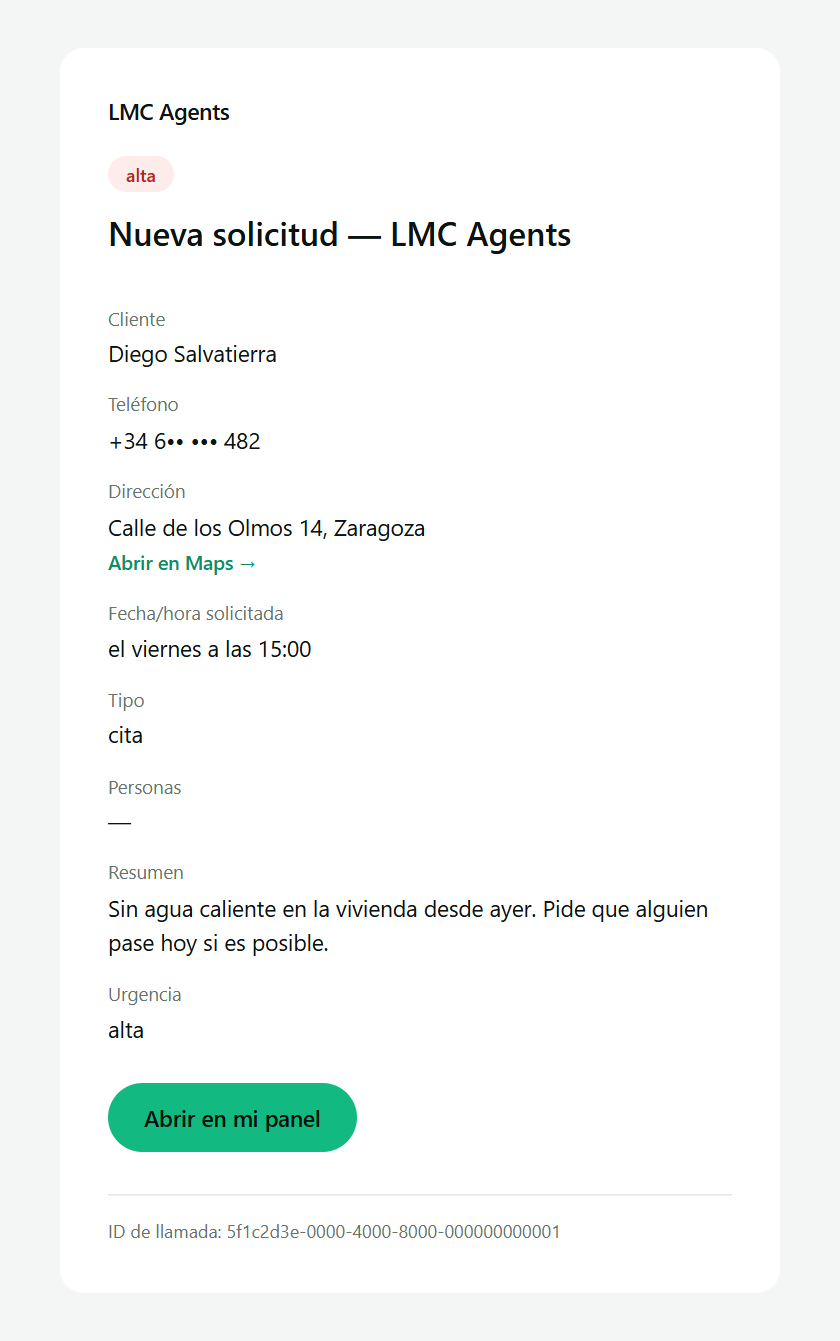
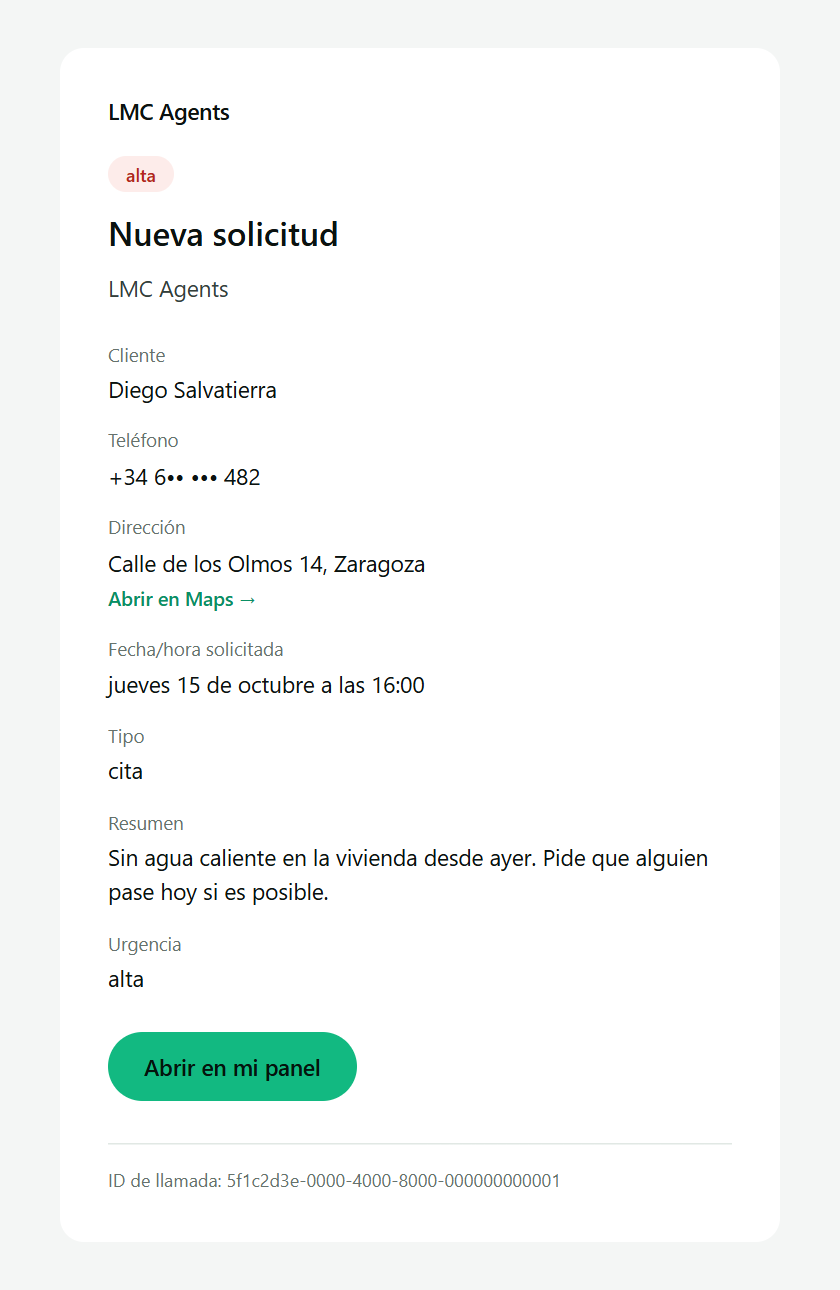
Owner emails: no dashes. Empty rows omitted, new subject shape, formatted date
- Subject: 'Nouvelle demande : Clémence (Business)' or 'Nouvelle demande : Business' without a name; review email 'Appel à vérifier : Business'. The no_name fallback is gone.
- Heading is just the heading; the business name (escaped) moves to the cell under it.
- _esc(None) returns '' and rows with an empty value are left out (client, phone, address, time, party size, summary); type and urgency stay. The review email has no phone row without a phone. The only caller of _esc relying on the dash was the row values.
- Requested date/time: shown from preferred_time_iso in the business timezone with fixed per-language weekday and month names (jeudi 15 octobre à 16:00); falls back to the caller's own words, never both. call_ingest passes the business tz.
- Tests (98 pass) and docs/email-previews regenerated, plus an almost-empty extraction preview.

diff --git a/docs/email-previews/es-urgent.html b/docs/email-previews/es-urgent.html
@@ -13,9 +13,9 @@
       <table role="presentation" width="100%" cellpadding="0" cellspacing="0" style="max-width:480px;background:#ffffff;border-radius:16px;padding:32px;">
         <tr><td style="font-size:15px;font-weight:600;letter-spacing:-0.01em;color:#0b1210;padding-bottom:20px;">LMC Agents</td></tr>
         <tr><td style="padding-bottom:14px;"><span style="display:inline-block;background:#fdecea;color:#b3261e;border-radius:999px;padding:4px 12px;font-size:12px;font-weight:600;">alta</span></td></tr>
-        <tr><td style="font-size:22px;font-weight:600;line-height:1.25;padding-bottom:10px;">Nueva solicitud — LMC Agents</td></tr>
-        <tr><td style="font-size:15px;line-height:1.6;color:#33403b;padding-bottom:24px;"></td></tr>
-        <tr><td style="padding-bottom:14px;"><div style="font-size:12.5px;line-height:1.4;color:#66726d;padding-bottom:3px;">Cliente</div><div style="font-size:15px;line-height:1.55;color:#0b1210;">Diego Salvatierra</div></td></tr><tr><td style="padding-bottom:14px;"><div style="font-size:12.5px;line-height:1.4;color:#66726d;padding-bottom:3px;">Teléfono</div><div style="font-size:15px;line-height:1.55;color:#0b1210;">+34 6•• ••• 482</div></td></tr><tr><td style="padding-bottom:14px;"><div style="font-size:12.5px;line-height:1.4;color:#66726d;padding-bottom:3px;">Dirección</div><div style="font-size:15px;line-height:1.55;color:#0b1210;">Calle de los Olmos 14, Zaragoza<br><a href="https://www.google.com/maps/search/?api=1&amp;query=Calle%20de%20los%20Olmos%2014%2C%20Zaragoza" style="font-size:13px;font-weight:600;color:#0a8f64;text-decoration:none;">Abrir en Maps →</a></div></td></tr><tr><td style="padding-bottom:14px;"><div style="font-size:12.5px;line-height:1.4;color:#66726d;padding-bottom:3px;">Fecha/hora solicitada</div><div style="font-size:15px;line-height:1.55;color:#0b1210;">el viernes a las 15:00</div></td></tr><tr><td style="padding-bottom:14px;"><div style="font-size:12.5px;line-height:1.4;color:#66726d;padding-bottom:3px;">Tipo</div><div style="font-size:15px;line-height:1.55;color:#0b1210;">cita</div></td></tr><tr><td style="padding-bottom:14px;"><div style="font-size:12.5px;line-height:1.4;color:#66726d;padding-bottom:3px;">Personas</div><div style="font-size:15px;line-height:1.55;color:#0b1210;">—</div></td></tr><tr><td style="padding-bottom:14px;"><div style="font-size:12.5px;line-height:1.4;color:#66726d;padding-bottom:3px;">Resumen</div><div style="font-size:15px;line-height:1.55;color:#0b1210;">Sin agua caliente en la vivienda desde ayer. Pide que alguien pase hoy si es posible.</div></td></tr><tr><td style="padding-bottom:14px;"><div style="font-size:12.5px;line-height:1.4;color:#66726d;padding-bottom:3px;">Urgencia</div><div style="font-size:15px;line-height:1.55;color:#0b1210;">alta</div></td></tr>
+        <tr><td style="font-size:22px;font-weight:600;line-height:1.25;padding-bottom:10px;">Nueva solicitud</td></tr>
+        <tr><td style="font-size:15px;line-height:1.6;color:#33403b;padding-bottom:24px;">LMC Agents</td></tr>
+        <tr><td style="padding-bottom:14px;"><div style="font-size:12.5px;line-height:1.4;color:#66726d;padding-bottom:3px;">Cliente</div><div style="font-size:15px;line-height:1.55;color:#0b1210;">Diego Salvatierra</div></td></tr><tr><td style="padding-bottom:14px;"><div style="font-size:12.5px;line-height:1.4;color:#66726d;padding-bottom:3px;">Teléfono</div><div style="font-size:15px;line-height:1.55;color:#0b1210;">+34 6•• ••• 482</div></td></tr><tr><td style="padding-bottom:14px;"><div style="font-size:12.5px;line-height:1.4;color:#66726d;padding-bottom:3px;">Dirección</div><div style="font-size:15px;line-height:1.55;color:#0b1210;">Calle de los Olmos 14, Zaragoza<br><a href="https://www.google.com/maps/search/?api=1&amp;query=Calle%20de%20los%20Olmos%2014%2C%20Zaragoza" style="font-size:13px;font-weight:600;color:#0a8f64;text-decoration:none;">Abrir en Maps →</a></div></td></tr><tr><td style="padding-bottom:14px;"><div style="font-size:12.5px;line-height:1.4;color:#66726d;padding-bottom:3px;">Fecha/hora solicitada</div><div style="font-size:15px;line-height:1.55;color:#0b1210;">jueves 15 de octubre a las 16:00</div></td></tr><tr><td style="padding-bottom:14px;"><div style="font-size:12.5px;line-height:1.4;color:#66726d;padding-bottom:3px;">Tipo</div><div style="font-size:15px;line-height:1.55;color:#0b1210;">cita</div></td></tr><tr><td style="padding-bottom:14px;"><div style="font-size:12.5px;line-height:1.4;color:#66726d;padding-bottom:3px;">Resumen</div><div style="font-size:15px;line-height:1.55;color:#0b1210;">Sin agua caliente en la vivienda desde ayer. Pide que alguien pase hoy si es posible.</div></td></tr><tr><td style="padding-bottom:14px;"><div style="font-size:12.5px;line-height:1.4;color:#66726d;padding-bottom:3px;">Urgencia</div><div style="font-size:15px;line-height:1.55;color:#0b1210;">alta</div></td></tr>
         <tr><td style="padding-top:10px;padding-bottom:28px;"><a href="https://www.lmcagents.app/dashboard/calls/5f1c2d3e-0000-4000-8000-000000000001" style="display:inline-block;background:#12b981;color:#04140d;font-size:15px;font-weight:600;text-decoration:none;padding:13px 24px;border-radius:999px;">Abrir en mi panel</a></td></tr>
         <tr><td style="font-size:12px;line-height:1.6;color:#66726d;border-top:1px solid #e1e8e4;padding-top:14px;">ID de llamada: 5f1c2d3e-0000-4000-8000-000000000001</td></tr>
       </table>

diff --git a/docs/email-previews/fr-urgent.html b/docs/email-previews/fr-urgent.html
@@ -13,9 +13,9 @@
       <table role="presentation" width="100%" cellpadding="0" cellspacing="0" style="max-width:480px;background:#ffffff;border-radius:16px;padding:32px;">
         <tr><td style="font-size:15px;font-weight:600;letter-spacing:-0.01em;color:#0b1210;padding-bottom:20px;">LMC Agents</td></tr>
         <tr><td style="padding-bottom:14px;"><span style="display:inline-block;background:#fdecea;color:#b3261e;border-radius:999px;padding:4px 12px;font-size:12px;font-weight:600;">élevée</span></td></tr>
-        <tr><td style="font-size:22px;font-weight:600;line-height:1.25;padding-bottom:10px;">Nouvelle demande — LMC Agents</td></tr>
-        <tr><td style="font-size:15px;line-height:1.6;color:#33403b;padding-bottom:24px;"></td></tr>
-        <tr><td style="padding-bottom:14px;"><div style="font-size:12.5px;line-height:1.4;color:#66726d;padding-bottom:3px;">Client</div><div style="font-size:15px;line-height:1.55;color:#0b1210;">Clémence Guyot</div></td></tr><tr><td style="padding-bottom:14px;"><div style="font-size:12.5px;line-height:1.4;color:#66726d;padding-bottom:3px;">Téléphone</div><div style="font-size:15px;line-height:1.55;color:#0b1210;">06 39 98 12 34</div></td></tr><tr><td style="padding-bottom:14px;"><div style="font-size:12.5px;line-height:1.4;color:#66726d;padding-bottom:3px;">Adresse</div><div style="font-size:15px;line-height:1.55;color:#0b1210;">14 rue des Tilleuls, Lyon<br><a href="https://www.google.com/maps/search/?api=1&amp;query=14%20rue%20des%20Tilleuls%2C%20Lyon" style="font-size:13px;font-weight:600;color:#0a8f64;text-decoration:none;">Ouvrir dans Maps →</a></div></td></tr><tr><td style="padding-bottom:14px;"><div style="font-size:12.5px;line-height:1.4;color:#66726d;padding-bottom:3px;">Date/heure demandée</div><div style="font-size:15px;line-height:1.55;color:#0b1210;">vendredi à 15 h</div></td></tr><tr><td style="padding-bottom:14px;"><div style="font-size:12.5px;line-height:1.4;color:#66726d;padding-bottom:3px;">Type</div><div style="font-size:15px;line-height:1.55;color:#0b1210;">rendez-vous</div></td></tr><tr><td style="padding-bottom:14px;"><div style="font-size:12.5px;line-height:1.4;color:#66726d;padding-bottom:3px;">Personnes</div><div style="font-size:15px;line-height:1.55;color:#0b1210;">—</div></td></tr><tr><td style="padding-bottom:14px;"><div style="font-size:12.5px;line-height:1.4;color:#66726d;padding-bottom:3px;">Résumé</div><div style="font-size:15px;line-height:1.55;color:#0b1210;">Chaudière en panne depuis ce matin, une fuite visible. Souhaite être rappelée rapidement.</div></td></tr><tr><td style="padding-bottom:14px;"><div style="font-size:12.5px;line-height:1.4;color:#66726d;padding-bottom:3px;">Urgence</div><div style="font-size:15px;line-height:1.55;color:#0b1210;">élevée</div></td></tr>
+        <tr><td style="font-size:22px;font-weight:600;line-height:1.25;padding-bottom:10px;">Nouvelle demande</td></tr>
+        <tr><td style="font-size:15px;line-height:1.6;color:#33403b;padding-bottom:24px;">LMC Agents</td></tr>
+        <tr><td style="padding-bottom:14px;"><div style="font-size:12.5px;line-height:1.4;color:#66726d;padding-bottom:3px;">Client</div><div style="font-size:15px;line-height:1.55;color:#0b1210;">Clémence Guyot</div></td></tr><tr><td style="padding-bottom:14px;"><div style="font-size:12.5px;line-height:1.4;color:#66726d;padding-bottom:3px;">Téléphone</div><div style="font-size:15px;line-height:1.55;color:#0b1210;">06 39 98 12 34</div></td></tr><tr><td style="padding-bottom:14px;"><div style="font-size:12.5px;line-height:1.4;color:#66726d;padding-bottom:3px;">Adresse</div><div style="font-size:15px;line-height:1.55;color:#0b1210;">14 rue des Tilleuls, Lyon<br><a href="https://www.google.com/maps/search/?api=1&amp;query=14%20rue%20des%20Tilleuls%2C%20Lyon" style="font-size:13px;font-weight:600;color:#0a8f64;text-decoration:none;">Ouvrir dans Maps →</a></div></td></tr><tr><td style="padding-bottom:14px;"><div style="font-size:12.5px;line-height:1.4;color:#66726d;padding-bottom:3px;">Date/heure demandée</div><div style="font-size:15px;line-height:1.55;color:#0b1210;">jeudi 15 octobre à 16:00</div></td></tr><tr><td style="padding-bottom:14px;"><div style="font-size:12.5px;line-height:1.4;color:#66726d;padding-bottom:3px;">Type</div><div style="font-size:15px;line-height:1.55;color:#0b1210;">rendez-vous</div></td></tr><tr><td style="padding-bottom:14px;"><div style="font-size:12.5px;line-height:1.4;color:#66726d;padding-bottom:3px;">Résumé</div><div style="font-size:15px;line-height:1.55;color:#0b1210;">Chaudière en panne depuis ce matin, une fuite visible. Souhaite être rappelée rapidement.</div></td></tr><tr><td style="padding-bottom:14px;"><div style="font-size:12.5px;line-height:1.4;color:#66726d;padding-bottom:3px;">Urgence</div><div style="font-size:15px;line-height:1.55;color:#0b1210;">élevée</div></td></tr>
         <tr><td style="padding-top:10px;padding-bottom:28px;"><a href="https://www.lmcagents.app/dashboard/calls/5f1c2d3e-0000-4000-8000-000000000001" style="display:inline-block;background:#12b981;color:#04140d;font-size:15px;font-weight:600;text-decoration:none;padding:13px 24px;border-radius:999px;">Ouvrir dans mon tableau de bord</a></td></tr>
         <tr><td style="font-size:12px;line-height:1.6;color:#66726d;border-top:1px solid #e1e8e4;padding-top:14px;">ID d'appel: 5f1c2d3e-0000-4000-8000-000000000001</td></tr>
       </table>

diff --git a/docs/email-previews/en-urgent.html b/docs/email-previews/en-urgent.html
@@ -13,9 +13,9 @@
       <table role="presentation" width="100%" cellpadding="0" cellspacing="0" style="max-width:480px;background:#ffffff;border-radius:16px;padding:32px;">
         <tr><td style="font-size:15px;font-weight:600;letter-spacing:-0.01em;color:#0b1210;padding-bottom:20px;">LMC Agents</td></tr>
         <tr><td style="padding-bottom:14px;"><span style="display:inline-block;background:#fdecea;color:#b3261e;border-radius:999px;padding:4px 12px;font-size:12px;font-weight:600;">high</span></td></tr>
-        <tr><td style="font-size:22px;font-weight:600;line-height:1.25;padding-bottom:10px;">New request — LMC Agents</td></tr>
-        <tr><td style="font-size:15px;line-height:1.6;color:#33403b;padding-bottom:24px;"></td></tr>
-        <tr><td style="padding-bottom:14px;"><div style="font-size:12.5px;line-height:1.4;color:#66726d;padding-bottom:3px;">Client</div><div style="font-size:15px;line-height:1.55;color:#0b1210;">Megan Pollard</div></td></tr><tr><td style="padding-bottom:14px;"><div style="font-size:12.5px;line-height:1.4;color:#66726d;padding-bottom:3px;">Phone</div><div style="font-size:15px;line-height:1.55;color:#0b1210;">07700 900123</div></td></tr><tr><td style="padding-bottom:14px;"><div style="font-size:12.5px;line-height:1.4;color:#66726d;padding-bottom:3px;">Address</div><div style="font-size:15px;line-height:1.55;color:#0b1210;">14 Hawthorn Road, Leeds<br><a href="https://www.google.com/maps/search/?api=1&amp;query=14%20Hawthorn%20Road%2C%20Leeds" style="font-size:13px;font-weight:600;color:#0a8f64;text-decoration:none;">Open in Maps →</a></div></td></tr><tr><td style="padding-bottom:14px;"><div style="font-size:12.5px;line-height:1.4;color:#66726d;padding-bottom:3px;">Requested date/time</div><div style="font-size:15px;line-height:1.55;color:#0b1210;">Friday at 3 pm</div></td></tr><tr><td style="padding-bottom:14px;"><div style="font-size:12.5px;line-height:1.4;color:#66726d;padding-bottom:3px;">Type</div><div style="font-size:15px;line-height:1.55;color:#0b1210;">appointment</div></td></tr><tr><td style="padding-bottom:14px;"><div style="font-size:12.5px;line-height:1.4;color:#66726d;padding-bottom:3px;">Party size</div><div style="font-size:15px;line-height:1.55;color:#0b1210;">—</div></td></tr><tr><td style="padding-bottom:14px;"><div style="font-size:12.5px;line-height:1.4;color:#66726d;padding-bottom:3px;">Summary</div><div style="font-size:15px;line-height:1.55;color:#0b1210;">Blocked toilet overflowing, needs someone today. Access through the side gate.</div></td></tr><tr><td style="padding-bottom:14px;"><div style="font-size:12.5px;line-height:1.4;color:#66726d;padding-bottom:3px;">Urgency</div><div style="font-size:15px;line-height:1.55;color:#0b1210;">high</div></td></tr>
+        <tr><td style="font-size:22px;font-weight:600;line-height:1.25;padding-bottom:10px;">New request</td></tr>
+        <tr><td style="font-size:15px;line-height:1.6;color:#33403b;padding-bottom:24px;">LMC Agents</td></tr>
+        <tr><td style="padding-bottom:14px;"><div style="font-size:12.5px;line-height:1.4;color:#66726d;padding-bottom:3px;">Client</div><div style="font-size:15px;line-height:1.55;color:#0b1210;">Megan Pollard</div></td></tr><tr><td style="padding-bottom:14px;"><div style="font-size:12.5px;line-height:1.4;color:#66726d;padding-bottom:3px;">Phone</div><div style="font-size:15px;line-height:1.55;color:#0b1210;">07700 900123</div></td></tr><tr><td style="padding-bottom:14px;"><div style="font-size:12.5px;line-height:1.4;color:#66726d;padding-bottom:3px;">Address</div><div style="font-size:15px;line-height:1.55;color:#0b1210;">14 Hawthorn Road, Leeds<br><a href="https://www.google.com/maps/search/?api=1&amp;query=14%20Hawthorn%20Road%2C%20Leeds" style="font-size:13px;font-weight:600;color:#0a8f64;text-decoration:none;">Open in Maps →</a></div></td></tr><tr><td style="padding-bottom:14px;"><div style="font-size:12.5px;line-height:1.4;color:#66726d;padding-bottom:3px;">Requested date/time</div><div style="font-size:15px;line-height:1.55;color:#0b1210;">Thursday 15 October at 15:00</div></td></tr><tr><td style="padding-bottom:14px;"><div style="font-size:12.5px;line-height:1.4;color:#66726d;padding-bottom:3px;">Type</div><div style="font-size:15px;line-height:1.55;color:#0b1210;">appointment</div></td></tr><tr><td style="padding-bottom:14px;"><div style="font-size:12.5px;line-height:1.4;color:#66726d;padding-bottom:3px;">Summary</div><div style="font-size:15px;line-height:1.55;color:#0b1210;">Blocked toilet overflowing, needs someone today. Access through the side gate.</div></td></tr><tr><td style="padding-bottom:14px;"><div style="font-size:12.5px;line-height:1.4;color:#66726d;padding-bottom:3px;">Urgency</div><div style="font-size:15px;line-height:1.55;color:#0b1210;">high</div></td></tr>
         <tr><td style="padding-top:10px;padding-bottom:28px;"><a href="https://www.lmcagents.app/dashboard/calls/5f1c2d3e-0000-4000-8000-000000000001" style="display:inline-block;background:#12b981;color:#04140d;font-size:15px;font-weight:600;text-decoration:none;padding:13px 24px;border-radius:999px;">Open in my dashboard</a></td></tr>
         <tr><td style="font-size:12px;line-height:1.6;color:#66726d;border-top:1px solid #e1e8e4;padding-top:14px;">Call ID: 5f1c2d3e-0000-4000-8000-000000000001</td></tr>
       </table>

diff --git a/docs/email-previews/fr-routine.html b/docs/email-previews/fr-routine.html
@@ -13,9 +13,9 @@
       <table role="presentation" width="100%" cellpadding="0" cellspacing="0" style="max-width:480px;background:#ffffff;border-radius:16px;padding:32px;">
         <tr><td style="font-size:15px;font-weight:600;letter-spacing:-0.01em;color:#0b1210;padding-bottom:20px;">LMC Agents</td></tr>
         
-        <tr><td style="font-size:22px;font-weight:600;line-height:1.25;padding-bottom:10px;">Nouvelle demande — LMC Agents</td></tr>
-        <tr><td style="font-size:15px;line-height:1.6;color:#33403b;padding-bottom:24px;"></td></tr>
-        <tr><td style="padding-bottom:14px;"><div style="font-size:12.5px;line-height:1.4;color:#66726d;padding-bottom:3px;">Client</div><div style="font-size:15px;line-height:1.55;color:#0b1210;">Clémence Guyot</div></td></tr><tr><td style="padding-bottom:14px;"><div style="font-size:12.5px;line-height:1.4;color:#66726d;padding-bottom:3px;">Téléphone</div><div style="font-size:15px;line-height:1.55;color:#0b1210;">06 39 98 12 34</div></td></tr><tr><td style="padding-bottom:14px;"><div style="font-size:12.5px;line-height:1.4;color:#66726d;padding-bottom:3px;">Adresse</div><div style="font-size:15px;line-height:1.55;color:#0b1210;">—</div></td></tr><tr><td style="padding-bottom:14px;"><div style="font-size:12.5px;line-height:1.4;color:#66726d;padding-bottom:3px;">Date/heure demandée</div><div style="font-size:15px;line-height:1.55;color:#0b1210;">vendredi à 15 h</div></td></tr><tr><td style="padding-bottom:14px;"><div style="font-size:12.5px;line-height:1.4;color:#66726d;padding-bottom:3px;">Type</div><div style="font-size:15px;line-height:1.55;color:#0b1210;">rendez-vous</div></td></tr><tr><td style="padding-bottom:14px;"><div style="font-size:12.5px;line-height:1.4;color:#66726d;padding-bottom:3px;">Personnes</div><div style="font-size:15px;line-height:1.55;color:#0b1210;">—</div></td></tr><tr><td style="padding-bottom:14px;"><div style="font-size:12.5px;line-height:1.4;color:#66726d;padding-bottom:3px;">Résumé</div><div style="font-size:15px;line-height:1.55;color:#0b1210;">Chaudière en panne depuis ce matin, une fuite visible. Souhaite être rappelée rapidement.</div></td></tr><tr><td style="padding-bottom:14px;"><div style="font-size:12.5px;line-height:1.4;color:#66726d;padding-bottom:3px;">Urgence</div><div style="font-size:15px;line-height:1.55;color:#0b1210;">normale</div></td></tr>
+        <tr><td style="font-size:22px;font-weight:600;line-height:1.25;padding-bottom:10px;">Nouvelle demande</td></tr>
+        <tr><td style="font-size:15px;line-height:1.6;color:#33403b;padding-bottom:24px;">LMC Agents</td></tr>
+        <tr><td style="padding-bottom:14px;"><div style="font-size:12.5px;line-height:1.4;color:#66726d;padding-bottom:3px;">Client</div><div style="font-size:15px;line-height:1.55;color:#0b1210;">Clémence Guyot</div></td></tr><tr><td style="padding-bottom:14px;"><div style="font-size:12.5px;line-height:1.4;color:#66726d;padding-bottom:3px;">Téléphone</div><div style="font-size:15px;line-height:1.55;color:#0b1210;">06 39 98 12 34</div></td></tr><tr><td style="padding-bottom:14px;"><div style="font-size:12.5px;line-height:1.4;color:#66726d;padding-bottom:3px;">Date/heure demandée</div><div style="font-size:15px;line-height:1.55;color:#0b1210;">vendredi à 15 h</div></td></tr><tr><td style="padding-bottom:14px;"><div style="font-size:12.5px;line-height:1.4;color:#66726d;padding-bottom:3px;">Type</div><div style="font-size:15px;line-height:1.55;color:#0b1210;">rendez-vous</div></td></tr><tr><td style="padding-bottom:14px;"><div style="font-size:12.5px;line-height:1.4;color:#66726d;padding-bottom:3px;">Résumé</div><div style="font-size:15px;line-height:1.55;color:#0b1210;">Chaudière en panne depuis ce matin, une fuite visible. Souhaite être rappelée rapidement.</div></td></tr><tr><td style="padding-bottom:14px;"><div style="font-size:12.5px;line-height:1.4;color:#66726d;padding-bottom:3px;">Urgence</div><div style="font-size:15px;line-height:1.55;color:#0b1210;">normale</div></td></tr>
         <tr><td style="padding-top:10px;padding-bottom:28px;"><a href="https://www.lmcagents.app/dashboard/calls/5f1c2d3e-0000-4000-8000-000000000001" style="display:inline-block;background:#12b981;color:#04140d;font-size:15px;font-weight:600;text-decoration:none;padding:13px 24px;border-radius:999px;">Ouvrir dans mon tableau de bord</a></td></tr>
         <tr><td style="font-size:12px;line-height:1.6;color:#66726d;border-top:1px solid #e1e8e4;padding-top:14px;">ID d'appel: 5f1c2d3e-0000-4000-8000-000000000001</td></tr>
       </table>

diff --git a/docs/email-previews/es-routine.html b/docs/email-previews/es-routine.html
@@ -13,9 +13,9 @@
       <table role="presentation" width="100%" cellpadding="0" cellspacing="0" style="max-width:480px;background:#ffffff;border-radius:16px;padding:32px;">
         <tr><td style="font-size:15px;font-weight:600;letter-spacing:-0.01em;color:#0b1210;padding-bottom:20px;">LMC Agents</td></tr>
         
-        <tr><td style="font-size:22px;font-weight:600;line-height:1.25;padding-bottom:10px;">Nueva solicitud — LMC Agents</td></tr>
-        <tr><td style="font-size:15px;line-height:1.6;color:#33403b;padding-bottom:24px;"></td></tr>
-        <tr><td style="padding-bottom:14px;"><div style="font-size:12.5px;line-height:1.4;color:#66726d;padding-bottom:3px;">Cliente</div><div style="font-size:15px;line-height:1.55;color:#0b1210;">Diego Salvatierra</div></td></tr><tr><td style="padding-bottom:14px;"><div style="font-size:12.5px;line-height:1.4;color:#66726d;padding-bottom:3px;">Teléfono</div><div style="font-size:15px;line-height:1.55;color:#0b1210;">+34 6•• ••• 482</div></td></tr><tr><td style="padding-bottom:14px;"><div style="font-size:12.5px;line-height:1.4;color:#66726d;padding-bottom:3px;">Dirección</div><div style="font-size:15px;line-height:1.55;color:#0b1210;">—</div></td></tr><tr><td style="padding-bottom:14px;"><div style="font-size:12.5px;line-height:1.4;color:#66726d;padding-bottom:3px;">Fecha/hora solicitada</div><div style="font-size:15px;line-height:1.55;color:#0b1210;">el viernes a las 15:00</div></td></tr><tr><td style="padding-bottom:14px;"><div style="font-size:12.5px;line-height:1.4;color:#66726d;padding-bottom:3px;">Tipo</div><div style="font-size:15px;line-height:1.55;color:#0b1210;">cita</div></td></tr><tr><td style="padding-bottom:14px;"><div style="font-size:12.5px;line-height:1.4;color:#66726d;padding-bottom:3px;">Personas</div><div style="font-size:15px;line-height:1.55;color:#0b1210;">—</div></td></tr><tr><td style="padding-bottom:14px;"><div style="font-size:12.5px;line-height:1.4;color:#66726d;padding-bottom:3px;">Resumen</div><div style="font-size:15px;line-height:1.55;color:#0b1210;">Sin agua caliente en la vivienda desde ayer. Pide que alguien pase hoy si es posible.</div></td></tr><tr><td style="padding-bottom:14px;"><div style="font-size:12.5px;line-height:1.4;color:#66726d;padding-bottom:3px;">Urgencia</div><div style="font-size:15px;line-height:1.55;color:#0b1210;">normal</div></td></tr>
+        <tr><td style="font-size:22px;font-weight:600;line-height:1.25;padding-bottom:10px;">Nueva solicitud</td></tr>
+        <tr><td style="font-size:15px;line-height:1.6;color:#33403b;padding-bottom:24px;">LMC Agents</td></tr>
+        <tr><td style="padding-bottom:14px;"><div style="font-size:12.5px;line-height:1.4;color:#66726d;padding-bottom:3px;">Cliente</div><div style="font-size:15px;line-height:1.55;color:#0b1210;">Diego Salvatierra</div></td></tr><tr><td style="padding-bottom:14px;"><div style="font-size:12.5px;line-height:1.4;color:#66726d;padding-bottom:3px;">Teléfono</div><div style="font-size:15px;line-height:1.55;color:#0b1210;">+34 6•• ••• 482</div></td></tr><tr><td style="padding-bottom:14px;"><div style="font-size:12.5px;line-height:1.4;color:#66726d;padding-bottom:3px;">Fecha/hora solicitada</div><div style="font-size:15px;line-height:1.55;color:#0b1210;">el viernes a las 15:00</div></td></tr><tr><td style="padding-bottom:14px;"><div style="font-size:12.5px;line-height:1.4;color:#66726d;padding-bottom:3px;">Tipo</div><div style="font-size:15px;line-height:1.55;color:#0b1210;">cita</div></td></tr><tr><td style="padding-bottom:14px;"><div style="font-size:12.5px;line-height:1.4;color:#66726d;padding-bottom:3px;">Resumen</div><div style="font-size:15px;line-height:1.55;color:#0b1210;">Sin agua caliente en la vivienda desde ayer. Pide que alguien pase hoy si es posible.</div></td></tr><tr><td style="padding-bottom:14px;"><div style="font-size:12.5px;line-height:1.4;color:#66726d;padding-bottom:3px;">Urgencia</div><div style="font-size:15px;line-height:1.55;color:#0b1210;">normal</div></td></tr>
         <tr><td style="padding-top:10px;padding-bottom:28px;"><a href="https://www.lmcagents.app/dashboard/calls/5f1c2d3e-0000-4000-8000-000000000001" style="display:inline-block;background:#12b981;color:#04140d;font-size:15px;font-weight:600;text-decoration:none;padding:13px 24px;border-radius:999px;">Abrir en mi panel</a></td></tr>
         <tr><td style="font-size:12px;line-height:1.6;color:#66726d;border-top:1px solid #e1e8e4;padding-top:14px;">ID de llamada: 5f1c2d3e-0000-4000-8000-000000000001</td></tr>
       </table>

diff --git a/docs/email-previews/en-routine.html b/docs/email-previews/en-routine.html
@@ -13,9 +13,9 @@
       <table role="presentation" width="100%" cellpadding="0" cellspacing="0" style="max-width:480px;background:#ffffff;border-radius:16px;padding:32px;">
         <tr><td style="font-size:15px;font-weight:600;letter-spacing:-0.01em;color:#0b1210;padding-bottom:20px;">LMC Agents</td></tr>
         
-        <tr><td style="font-size:22px;font-weight:600;line-height:1.25;padding-bottom:10px;">New request — LMC Agents</td></tr>
-        <tr><td style="font-size:15px;line-height:1.6;color:#33403b;padding-bottom:24px;"></td></tr>
-        <tr><td style="padding-bottom:14px;"><div style="font-size:12.5px;line-height:1.4;color:#66726d;padding-bottom:3px;">Client</div><div style="font-size:15px;line-height:1.55;color:#0b1210;">Megan Pollard</div></td></tr><tr><td style="padding-bottom:14px;"><div style="font-size:12.5px;line-height:1.4;color:#66726d;padding-bottom:3px;">Phone</div><div style="font-size:15px;line-height:1.55;color:#0b1210;">07700 900123</div></td></tr><tr><td style="padding-bottom:14px;"><div style="font-size:12.5px;line-height:1.4;color:#66726d;padding-bottom:3px;">Address</div><div style="font-size:15px;line-height:1.55;color:#0b1210;">—</div></td></tr><tr><td style="padding-bottom:14px;"><div style="font-size:12.5px;line-height:1.4;color:#66726d;padding-bottom:3px;">Requested date/time</div><div style="font-size:15px;line-height:1.55;color:#0b1210;">Friday at 3 pm</div></td></tr><tr><td style="padding-bottom:14px;"><div style="font-size:12.5px;line-height:1.4;color:#66726d;padding-bottom:3px;">Type</div><div style="font-size:15px;line-height:1.55;color:#0b1210;">appointment</div></td></tr><tr><td style="padding-bottom:14px;"><div style="font-size:12.5px;line-height:1.4;color:#66726d;padding-bottom:3px;">Party size</div><div style="font-size:15px;line-height:1.55;color:#0b1210;">—</div></td></tr><tr><td style="padding-bottom:14px;"><div style="font-size:12.5px;line-height:1.4;color:#66726d;padding-bottom:3px;">Summary</div><div style="font-size:15px;line-height:1.55;color:#0b1210;">Blocked toilet overflowing, needs someone today. Access through the side gate.</div></td></tr><tr><td style="padding-bottom:14px;"><div style="font-size:12.5px;line-height:1.4;color:#66726d;padding-bottom:3px;">Urgency</div><div style="font-size:15px;line-height:1.55;color:#0b1210;">normal</div></td></tr>
+        <tr><td style="font-size:22px;font-weight:600;line-height:1.25;padding-bottom:10px;">New request</td></tr>
+        <tr><td style="font-size:15px;line-height:1.6;color:#33403b;padding-bottom:24px;">LMC Agents</td></tr>
+        <tr><td style="padding-bottom:14px;"><div style="font-size:12.5px;line-height:1.4;color:#66726d;padding-bottom:3px;">Client</div><div style="font-size:15px;line-height:1.55;color:#0b1210;">Megan Pollard</div></td></tr><tr><td style="padding-bottom:14px;"><div style="font-size:12.5px;line-height:1.4;color:#66726d;padding-bottom:3px;">Phone</div><div style="font-size:15px;line-height:1.55;color:#0b1210;">07700 900123</div></td></tr><tr><td style="padding-bottom:14px;"><div style="font-size:12.5px;line-height:1.4;color:#66726d;padding-bottom:3px;">Requested date/time</div><div style="font-size:15px;line-height:1.55;color:#0b1210;">Friday at 3 pm</div></td></tr><tr><td style="padding-bottom:14px;"><div style="font-size:12.5px;line-height:1.4;color:#66726d;padding-bottom:3px;">Type</div><div style="font-size:15px;line-height:1.55;color:#0b1210;">appointment</div></td></tr><tr><td style="padding-bottom:14px;"><div style="font-size:12.5px;line-height:1.4;color:#66726d;padding-bottom:3px;">Summary</div><div style="font-size:15px;line-height:1.55;color:#0b1210;">Blocked toilet overflowing, needs someone today. Access through the side gate.</div></td></tr><tr><td style="padding-bottom:14px;"><div style="font-size:12.5px;line-height:1.4;color:#66726d;padding-bottom:3px;">Urgency</div><div style="font-size:15px;line-height:1.55;color:#0b1210;">normal</div></td></tr>
         <tr><td style="padding-top:10px;padding-bottom:28px;"><a href="https://www.lmcagents.app/dashboard/calls/5f1c2d3e-0000-4000-8000-000000000001" style="display:inline-block;background:#12b981;color:#04140d;font-size:15px;font-weight:600;text-decoration:none;padding:13px 24px;border-radius:999px;">Open in my dashboard</a></td></tr>
         <tr><td style="font-size:12px;line-height:1.6;color:#66726d;border-top:1px solid #e1e8e4;padding-top:14px;">Call ID: 5f1c2d3e-0000-4000-8000-000000000001</td></tr>
       </table>

diff --git a/docs/email-previews/es-almost-empty.html b/docs/email-previews/es-almost-empty.html
@@ -1,0 +1,25 @@
+<!DOCTYPE html>
+<html lang="es">
+<head>
+  <meta charset="utf-8">
+  <meta name="viewport" content="width=device-width, initial-scale=1">
+  <meta name="color-scheme" content="light dark">
+  <title>LMC Agents</title>
+</head>
+<body style="margin:0;padding:0;background:#f4f6f5;font-family:-apple-system,BlinkMacSystemFont,'Segoe UI',Roboto,Helvetica,Arial,sans-serif;color:#0b1210;">
+  <div style="display:none;max-height:0;overflow:hidden;opacity:0;">Una nueva llamada atendida por tu recepcionista.</div>
+  <table role="presentation" width="100%" cellpadding="0" cellspacing="0" style="background:#f4f6f5;padding:32px 16px;">
+    <tr><td align="center">
+      <table role="presentation" width="100%" cellpadding="0" cellspacing="0" style="max-width:480px;background:#ffffff;border-radius:16px;padding:32px;">
+        <tr><td style="font-size:15px;font-weight:600;letter-spacing:-0.01em;color:#0b1210;padding-bottom:20px;">LMC Agents</td></tr>
+        
+        <tr><td style="font-size:22px;font-weight:600;line-height:1.25;padding-bottom:10px;">Nueva solicitud</td></tr>
+        <tr><td style="font-size:15px;line-height:1.6;color:#33403b;padding-bottom:24px;">LMC Agents</td></tr>
+        <tr><td style="padding-bottom:14px;"><div style="font-size:12.5px;line-height:1.4;color:#66726d;padding-bottom:3px;">Tipo</div><div style="font-size:15px;line-height:1.55;color:#0b1210;">llamada de vuelta</div></td></tr><tr><td style="padding-bottom:14px;"><div style="font-size:12.5px;line-height:1.4;color:#66726d;padding-bottom:3px;">Urgencia</div><div style="font-size:15px;line-height:1.55;color:#0b1210;">normal</div></td></tr>
+        <tr><td style="padding-top:10px;padding-bottom:28px;"><a href="https://www.lmcagents.app/dashboard/calls/5f1c2d3e-0000-4000-8000-000000000003" style="display:inline-block;background:#12b981;color:#04140d;font-size:15px;font-weight:600;text-decoration:none;padding:13px 24px;border-radius:999px;">Abrir en mi panel</a></td></tr>
+        <tr><td style="font-size:12px;line-height:1.6;color:#66726d;border-top:1px solid #e1e8e4;padding-top:14px;">ID de llamada: 5f1c2d3e-0000-4000-8000-000000000003</td></tr>
+      </table>
+    </td></tr>
+  </table>
+</body>
+</html>

diff --git a/docs/email-previews/fr-almost-empty.html b/docs/email-previews/fr-almost-empty.html
@@ -1,0 +1,25 @@
+<!DOCTYPE html>
+<html lang="fr">
+<head>
+  <meta charset="utf-8">
+  <meta name="viewport" content="width=device-width, initial-scale=1">
+  <meta name="color-scheme" content="light dark">
+  <title>LMC Agents</title>
+</head>
+<body style="margin:0;padding:0;background:#f4f6f5;font-family:-apple-system,BlinkMacSystemFont,'Segoe UI',Roboto,Helvetica,Arial,sans-serif;color:#0b1210;">
+  <div style="display:none;max-height:0;overflow:hidden;opacity:0;">Un nouvel appel pris par votre réceptionniste.</div>
+  <table role="presentation" width="100%" cellpadding="0" cellspacing="0" style="background:#f4f6f5;padding:32px 16px;">
+    <tr><td align="center">
+      <table role="presentation" width="100%" cellpadding="0" cellspacing="0" style="max-width:480px;background:#ffffff;border-radius:16px;padding:32px;">
+        <tr><td style="font-size:15px;font-weight:600;letter-spacing:-0.01em;color:#0b1210;padding-bottom:20px;">LMC Agents</td></tr>
+        
+        <tr><td style="font-size:22px;font-weight:600;line-height:1.25;padding-bottom:10px;">Nouvelle demande</td></tr>
+        <tr><td style="font-size:15px;line-height:1.6;color:#33403b;padding-bottom:24px;">LMC Agents</td></tr>
+        <tr><td style="padding-bottom:14px;"><div style="font-size:12.5px;line-height:1.4;color:#66726d;padding-bottom:3px;">Type</div><div style="font-size:15px;line-height:1.55;color:#0b1210;">rappel</div></td></tr><tr><td style="padding-bottom:14px;"><div style="font-size:12.5px;line-height:1.4;color:#66726d;padding-bottom:3px;">Urgence</div><div style="font-size:15px;line-height:1.55;color:#0b1210;">normale</div></td></tr>
+        <tr><td style="padding-top:10px;padding-bottom:28px;"><a href="https://www.lmcagents.app/dashboard/calls/5f1c2d3e-0000-4000-8000-000000000003" style="display:inline-block;background:#12b981;color:#04140d;font-size:15px;font-weight:600;text-decoration:none;padding:13px 24px;border-radius:999px;">Ouvrir dans mon tableau de bord</a></td></tr>
+        <tr><td style="font-size:12px;line-height:1.6;color:#66726d;border-top:1px solid #e1e8e4;padding-top:14px;">ID d'appel: 5f1c2d3e-0000-4000-8000-000000000003</td></tr>
+      </table>
+    </td></tr>
+  </table>
+</body>
+</html>

diff --git a/docs/email-previews/en-almost-empty.html b/docs/email-previews/en-almost-empty.html
@@ -1,0 +1,25 @@
+<!DOCTYPE html>
+<html lang="en">
+<head>
+  <meta charset="utf-8">
+  <meta name="viewport" content="width=device-width, initial-scale=1">
+  <meta name="color-scheme" content="light dark">
+  <title>LMC Agents</title>
+</head>
+<body style="margin:0;padding:0;background:#f4f6f5;font-family:-apple-system,BlinkMacSystemFont,'Segoe UI',Roboto,Helvetica,Arial,sans-serif;color:#0b1210;">
+  <div style="display:none;max-height:0;overflow:hidden;opacity:0;">A new call answered by your receptionist.</div>
+  <table role="presentation" width="100%" cellpadding="0" cellspacing="0" style="background:#f4f6f5;padding:32px 16px;">
+    <tr><td align="center">
+      <table role="presentation" width="100%" cellpadding="0" cellspacing="0" style="max-width:480px;background:#ffffff;border-radius:16px;padding:32px;">
+        <tr><td style="font-size:15px;font-weight:600;letter-spacing:-0.01em;color:#0b1210;padding-bottom:20px;">LMC Agents</td></tr>
+        
+        <tr><td style="font-size:22px;font-weight:600;line-height:1.25;padding-bottom:10px;">New request</td></tr>
+        <tr><td style="font-size:15px;line-height:1.6;color:#33403b;padding-bottom:24px;">LMC Agents</td></tr>
+        <tr><td style="padding-bottom:14px;"><div style="font-size:12.5px;line-height:1.4;color:#66726d;padding-bottom:3px;">Type</div><div style="font-size:15px;line-height:1.55;color:#0b1210;">callback</div></td></tr><tr><td style="padding-bottom:14px;"><div style="font-size:12.5px;line-height:1.4;color:#66726d;padding-bottom:3px;">Urgency</div><div style="font-size:15px;line-height:1.55;color:#0b1210;">normal</div></td></tr>
+        <tr><td style="padding-top:10px;padding-bottom:28px;"><a href="https://www.lmcagents.app/dashboard/calls/5f1c2d3e-0000-4000-8000-000000000003" style="display:inline-block;background:#12b981;color:#04140d;font-size:15px;font-weight:600;text-decoration:none;padding:13px 24px;border-radius:999px;">Open in my dashboard</a></td></tr>
+        <tr><td style="font-size:12px;line-height:1.6;color:#66726d;border-top:1px solid #e1e8e4;padding-top:14px;">Call ID: 5f1c2d3e-0000-4000-8000-000000000003</td></tr>
+      </table>
+    </td></tr>
+  </table>
+</body>
+</html>

diff --git a/docs/email-previews/fr-needs-review.html b/docs/email-previews/fr-needs-review.html
@@ -13,8 +13,8 @@
       <table role="presentation" width="100%" cellpadding="0" cellspacing="0" style="max-width:480px;background:#ffffff;border-radius:16px;padding:32px;">
         <tr><td style="font-size:15px;font-weight:600;letter-spacing:-0.01em;color:#0b1210;padding-bottom:20px;">LMC Agents</td></tr>
         
-        <tr><td style="font-size:22px;font-weight:600;line-height:1.25;padding-bottom:10px;">Appel à vérifier — LMC Agents</td></tr>
-        <tr><td style="font-size:15px;line-height:1.6;color:#33403b;padding-bottom:24px;">Nous n’avons pas pu analyser cet appel automatiquement. La transcription est enregistrée : ouvrez-la dans votre tableau de bord (Appels) pour la relire.</td></tr>
+        <tr><td style="font-size:22px;font-weight:600;line-height:1.25;padding-bottom:10px;">Appel à vérifier</td></tr>
+        <tr><td style="font-size:15px;line-height:1.6;color:#33403b;padding-bottom:24px;">LMC Agents<br>Nous n’avons pas pu analyser cet appel automatiquement. La transcription est enregistrée : ouvrez-la dans votre tableau de bord (Appels) pour la relire.</td></tr>
         <tr><td style="padding-bottom:14px;"><div style="font-size:12.5px;line-height:1.4;color:#66726d;padding-bottom:3px;">Téléphone</div><div style="font-size:15px;line-height:1.55;color:#0b1210;">06 39 98 12 34</div></td></tr>
         <tr><td style="padding-top:10px;padding-bottom:28px;"><a href="https://www.lmcagents.app/dashboard/calls/5f1c2d3e-0000-4000-8000-000000000002" style="display:inline-block;background:#12b981;color:#04140d;font-size:15px;font-weight:600;text-decoration:none;padding:13px 24px;border-radius:999px;">Ouvrir dans mon tableau de bord</a></td></tr>
         <tr><td style="font-size:12px;line-height:1.6;color:#66726d;border-top:1px solid #e1e8e4;padding-top:14px;">ID d'appel: 5f1c2d3e-0000-4000-8000-000000000002</td></tr>

diff --git a/docs/email-previews/es-needs-review.html b/docs/email-previews/es-needs-review.html
@@ -13,8 +13,8 @@
       <table role="presentation" width="100%" cellpadding="0" cellspacing="0" style="max-width:480px;background:#ffffff;border-radius:16px;padding:32px;">
         <tr><td style="font-size:15px;font-weight:600;letter-spacing:-0.01em;color:#0b1210;padding-bottom:20px;">LMC Agents</td></tr>
         
-        <tr><td style="font-size:22px;font-weight:600;line-height:1.25;padding-bottom:10px;">Llamada por revisar — LMC Agents</td></tr>
-        <tr><td style="font-size:15px;line-height:1.6;color:#33403b;padding-bottom:24px;">No hemos podido leer esta llamada automáticamente. La transcripción está guardada: ábrela en tu panel (Llamadas) para revisarla.</td></tr>
+        <tr><td style="font-size:22px;font-weight:600;line-height:1.25;padding-bottom:10px;">Llamada por revisar</td></tr>
+        <tr><td style="font-size:15px;line-height:1.6;color:#33403b;padding-bottom:24px;">LMC Agents<br>No hemos podido leer esta llamada automáticamente. La transcripción está guardada: ábrela en tu panel (Llamadas) para revisarla.</td></tr>
         <tr><td style="padding-bottom:14px;"><div style="font-size:12.5px;line-height:1.4;color:#66726d;padding-bottom:3px;">Teléfono</div><div style="font-size:15px;line-height:1.55;color:#0b1210;">+34 6•• ••• 482</div></td></tr>
         <tr><td style="padding-top:10px;padding-bottom:28px;"><a href="https://www.lmcagents.app/dashboard/calls/5f1c2d3e-0000-4000-8000-000000000002" style="display:inline-block;background:#12b981;color:#04140d;font-size:15px;font-weight:600;text-decoration:none;padding:13px 24px;border-radius:999px;">Abrir en mi panel</a></td></tr>
         <tr><td style="font-size:12px;line-height:1.6;color:#66726d;border-top:1px solid #e1e8e4;padding-top:14px;">ID de llamada: 5f1c2d3e-0000-4000-8000-000000000002</td></tr>

diff --git a/docs/email-previews/en-needs-review.html b/docs/email-previews/en-needs-review.html
@@ -13,8 +13,8 @@
       <table role="presentation" width="100%" cellpadding="0" cellspacing="0" style="max-width:480px;background:#ffffff;border-radius:16px;padding:32px;">
         <tr><td style="font-size:15px;font-weight:600;letter-spacing:-0.01em;color:#0b1210;padding-bottom:20px;">LMC Agents</td></tr>
         
-        <tr><td style="font-size:22px;font-weight:600;line-height:1.25;padding-bottom:10px;">Call needs review — LMC Agents</td></tr>
-        <tr><td style="font-size:15px;line-height:1.6;color:#33403b;padding-bottom:24px;">We couldn't read this call automatically. The transcript is saved: open it in your dashboard (Calls) to review it.</td></tr>
+        <tr><td style="font-size:22px;font-weight:600;line-height:1.25;padding-bottom:10px;">Call needs review</td></tr>
+        <tr><td style="font-size:15px;line-height:1.6;color:#33403b;padding-bottom:24px;">LMC Agents<br>We couldn't read this call automatically. The transcript is saved: open it in your dashboard (Calls) to review it.</td></tr>
         <tr><td style="padding-bottom:14px;"><div style="font-size:12.5px;line-height:1.4;color:#66726d;padding-bottom:3px;">Phone</div><div style="font-size:15px;line-height:1.55;color:#0b1210;">07700 900123</div></td></tr>
         <tr><td style="padding-top:10px;padding-bottom:28px;"><a href="https://www.lmcagents.app/dashboard/calls/5f1c2d3e-0000-4000-8000-000000000002" style="display:inline-block;background:#12b981;color:#04140d;font-size:15px;font-weight:600;text-decoration:none;padding:13px 24px;border-radius:999px;">Open in my dashboard</a></td></tr>
         <tr><td style="font-size:12px;line-height:1.6;color:#66726d;border-top:1px solid #e1e8e4;padding-top:14px;">Call ID: 5f1c2d3e-0000-4000-8000-000000000002</td></tr>
